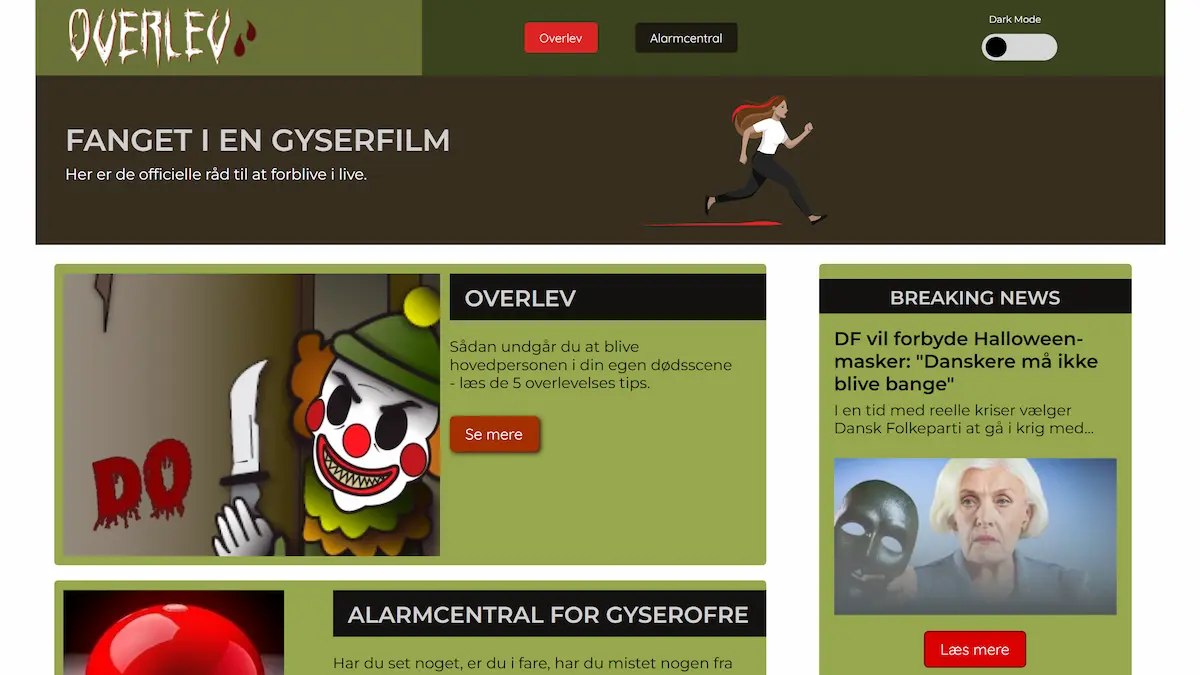
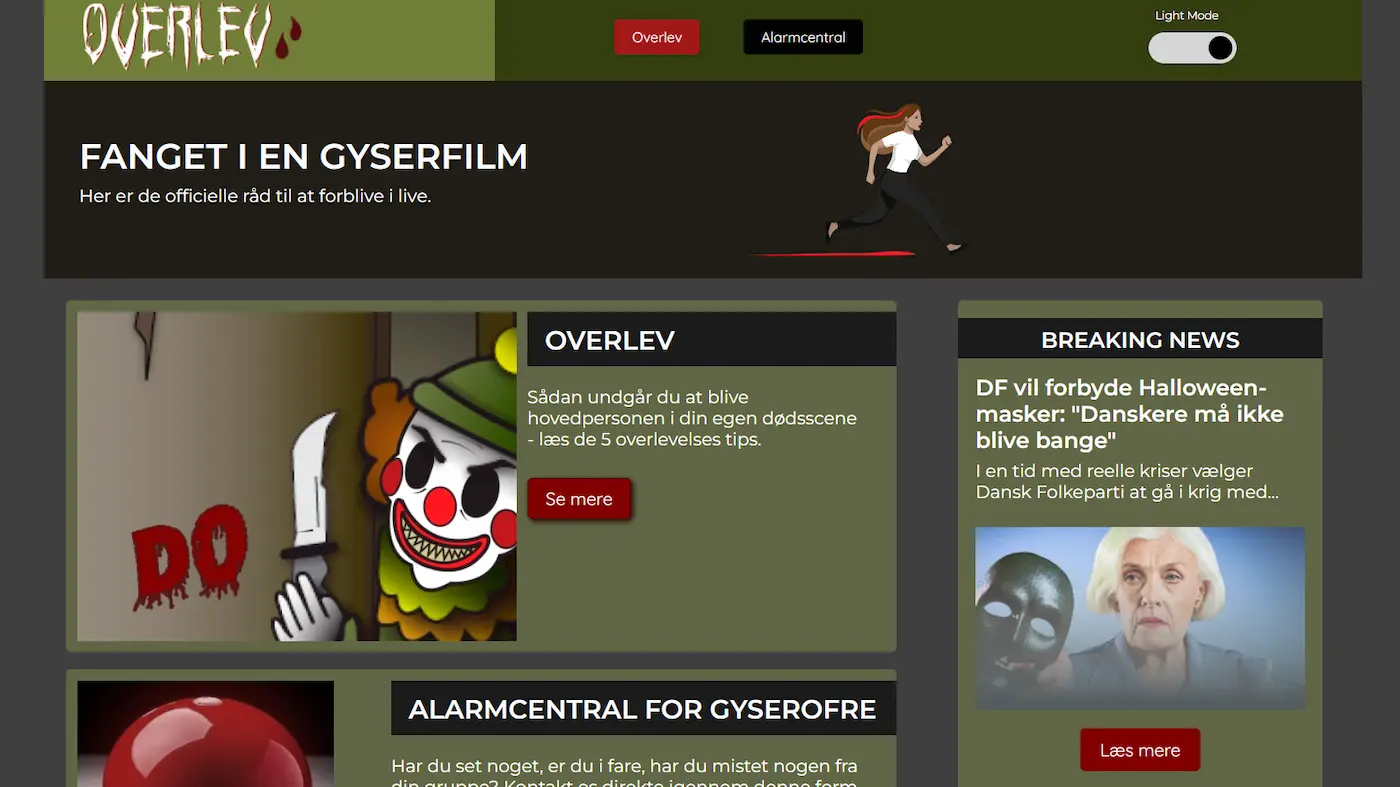
Portfolio side lavet

diff --git a/general.css b/general.css
@@ -310,8 +310,8 @@ nav {
 
 .lottie {
   position: absolute;
-  right: 150px;
-  bottom: 50px;
+  right: 200px;
+  bottom: 130px;
   height: 450px;
 }
 
@@ -397,6 +397,75 @@ nav {
   font-size: 18px;
   padding-bottom: 20px;
   margin-bottom: 30px;
+}
+
+/*PORTFOLIO SIDE*/
+.portfolio-container {
+  display: grid;
+  grid-template-columns: repeat(2, 1fr);
+  row-gap: 30px;
+  justify-items: center;
+  padding: 10px;
+  padding-left: 100px;
+  padding-right: 100px;
+  margin-bottom: 30px;
+}
+
+.portfolio-card {
+  background-color: white;
+  width: 500px;
+  height: 650px;
+  padding: 1px;
+  box-shadow: 0 4px 8px rgba(0, 0, 0, 0.1);
+  opacity: 0.5;
+  transition: all 0.3s ease;
+  display: flex;
+  flex-direction: column;
+}
+
+.portfolio-card a {
+  background-color: CDCDCD;
+  color: #000000;
+  width: 200px;
+  text-align: center;
+  font-size: 25px;
+  letter-spacing: 1px;
+  border: solid rgb(0, 0, 0) 0.2px;
+  border-radius: 10px;
+  box-shadow: 1px 1px 5px black;
+  margin-left: 260px;
+  padding: 10px;
+  margin-top: 20px;
+  margin-bottom: 0px;
+}
+
+.portfolio-card img {
+  margin-top: 35px;
+}
+
+.portfolio-card h2 {
+  color: #c9372c;
+  font-family: Oswaldbold;
+  font-size: 100px;
+  margin-top: 10px;
+  margin-left: 20px;
+  margin-bottom: 0;
+  text-shadow: -2px 2px 10px #c9372c;
+}
+
+.portfolio-card h3 {
+  font-family: Oswaldbold;
+  margin-left: 20px;
+}
+
+.portfolio-card p {
+  margin-left: 20px;
+}
+
+.portfolio-card:hover {
+  opacity: 1;
+  transform: translateY(-10px) scale(1.1);
+  z-index: 1;
 }
 
 /*mobile size*/

diff --git a/portfolio.html b/portfolio.html
@@ -47,6 +47,36 @@
       <div class="headline">
         <h1>PORTFOLIO</h1>
       </div>
+      <div class="portfolio-container">
+        <div class="portfolio-card">
+          <h2 class="port-header1">T2</h2>
+          <h3>GRUNDLÆGGENDE WEB</h3>
+          <p>Introduktion til HTML og CSS</p>
+          <a href="#2">LÆS OM TEMA 2</a>
+          <img src="/img/t2forsidedesk.webp" alt="" />
+        </div>
+        <div class="portfolio-card">
+          <h2 class="port-header1">T3</h2>
+          <h3>GRUNDLÆGGENDE UX/UI</h3>
+          <p>Forståelse for UX og UI-metoder</p>
+          <a href="#2">LÆS OM TEMA 3</a>
+          <img src="/img/t3forside.webp" alt="" />
+        </div>
+        <div class="portfolio-card">
+          <h2 class="port-header1">T4</h2>
+          <h3>GRUNDLÆGGENDE ANIMATION</h3>
+          <p>Introduktion til Javascript og CSS-animationer</p>
+          <a href="#2">LÆS OM TEMA 4</a>
+          <img src="/img/t4forside.webp" alt="" />
+        </div>
+        <div class="portfolio-card">
+          <h2 class="port-header1">T5</h2>
+          <h3>GRUNDLÆGGENDE INDHOLD</h3>
+          <p>Redesign af en virksomheds website</p>
+          <a href="#2">LÆS OM TEMA 5</a>
+          <img src="/img/t5forside.webp" alt="" />
+        </div>
+      </div>
     </main>
     <footer>
       <div class="grid3_1">

diff --git a/ommig.html b/ommig.html
@@ -128,7 +128,7 @@
               Photoshop
             </li>
             <li>
-              <img src="img/AEicon.webp" alt="Adobe After Effects" /> Adobe
+              <img src="img/AEicon (1).webp" alt="Adobe After Effects" /> Adobe
               After Effects
             </li>
             <li>
